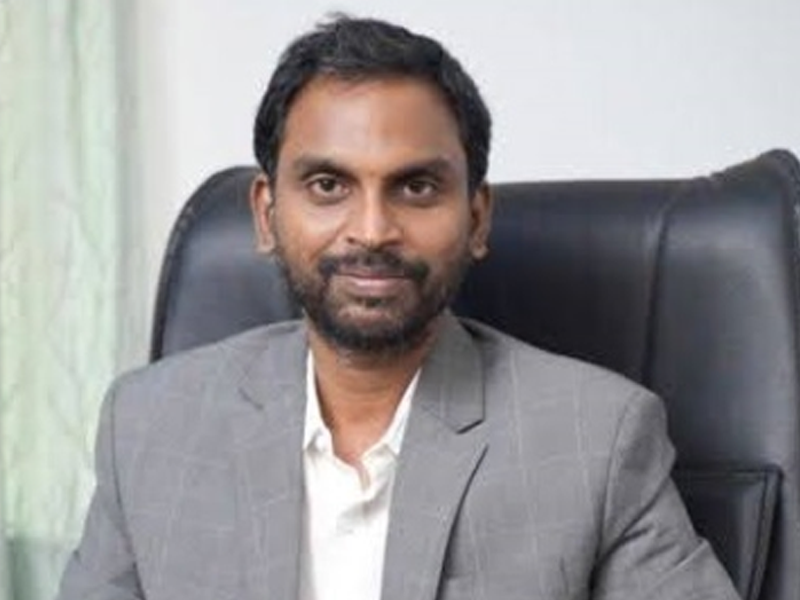
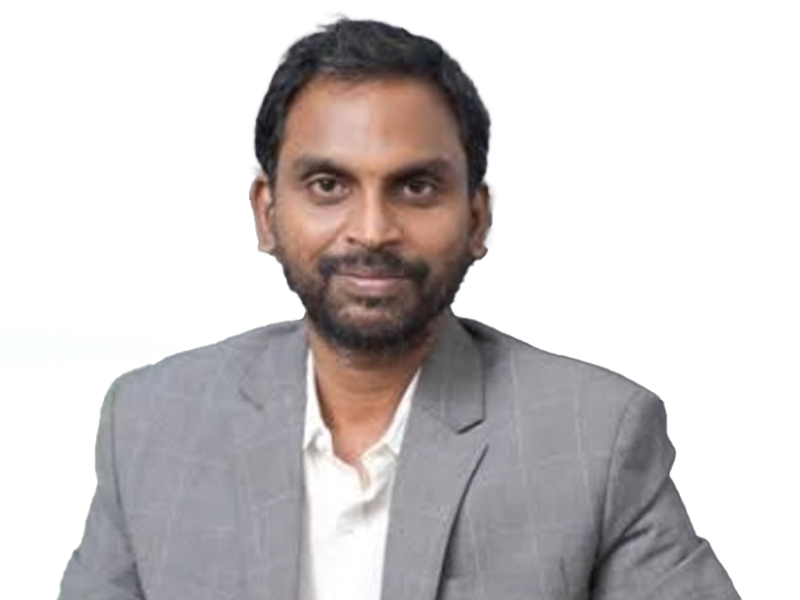
update

diff --git a/index.html b/index.html
@@ -612,7 +612,7 @@
                     <div class="col-md-4 equal-height">
                         <div class="item">
                             <div class="thumb">
-                                <img src="assets/img/800x600.png" alt="Thumb">
+                                <img src="assets/img/meenakshi.png" alt="Thumb">
                                 <div class="overlay">
                                     <a href="#"><i class="fas fa-plus"></i></a>
                                 </div>
@@ -647,7 +647,7 @@
                     <div class="col-md-4 equal-height">
                         <div class="item">
                             <div class="thumb">
-                                <img src="assets/img/800x600.png" alt="Thumb">
+                                <img src="assets/img/kavya.png" alt="Thumb">
                                 <div class="overlay">
                                     <a href="#"><i class="fas fa-plus"></i></a>
                                 </div>
